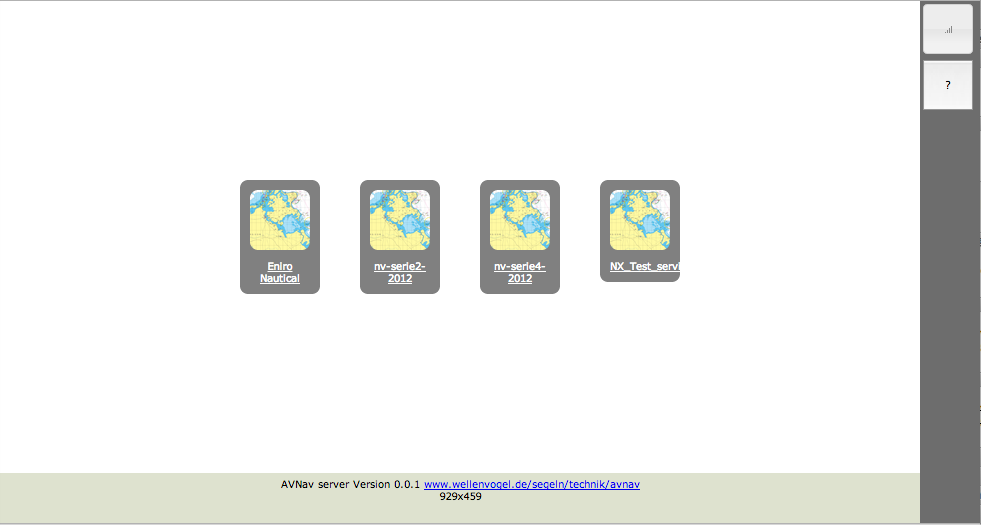
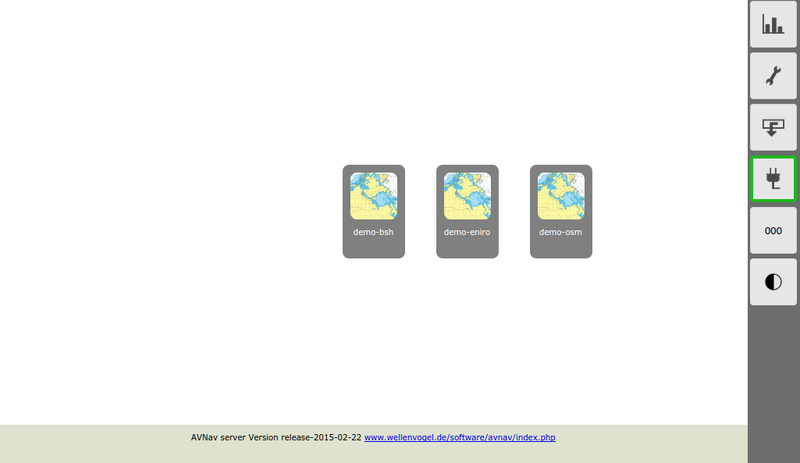
update doc

Changed region(s): [[0.0, 0.0, 1.0, 1.0], [0.2188, 0.3326, 0.75, 0.5745]]

diff --git a/docs/avnav-de.html b/docs/avnav-de.html
@@ -42,7 +42,7 @@
       danach einige technische Details.</p>
     <h3 class="western">Die Bedienung</h3>
     <p>Nach dem Aufruf der Start-Url landet man auf der Einstigesseite.</p>
-    <p><img src="mainpage.png" name="Grafik3" border="0" width="600"> </p>
+    <p><img src="navi-start.png" name="Grafik3" border="0" width="600"> </p>
     <p>Im Hauptbereich der Seite befindet sich die Liste der vom Server
       gefundenen Kartensätze (beim Raspi-Server gemf files unter
       /data/avnav/charts, in der Android App unter charts im gewählten
@@ -219,6 +219,8 @@
       meisten Aktionen bezihen sich auf diesen Wegepunkt. Er kann durch
       Anklicken links, durch die Pfeiltasten oben oder durch anklicken auf der
       Karte geändert werden.</p>
+    <p>Wenn man die momentan aktive Route bearbeitet, wird das durch einen roten
+      Rahmen links um die Routen-Info angezeigt.</p>
     <p>Neben den Standard buttons der Navigationsseite wird eine zusätzliche
       Leiste mit routing buttons eingeblendet:</p>
     <table style="width: 100%" border="1">
@@ -250,6 +252,11 @@
           </td>
         </tr>
         <tr>
+          <td><img alt="" src="../viewer/images/InvertRoute60.png" height="40"><br>
+          </td>
+          <td>Umkehren der Route</td>
+        </tr>
+        <tr>
           <td><img alt="" src="../viewer/images/trash32.png"><br>
           </td>
           <td>Löschen der aktuellen Route (alle Wegepunkte werden gelöscht)<br>
@@ -259,13 +266,25 @@
     </table>
     <p>Ein Klick auf den <img alt="" src="../viewer/images/RoutingButton40.png"
         height="20">Button verläßt den Editier-Modus ohne das die Route aktiv
-      wird.</p>
+      wird. Falls eine andere als die aktive Route editiert wurde, geht die
+      Anzeige jetzt zur aktiven Route zurück.</p>
     <p>Auf der linken Seite werden die Wegepunkte der aktuellen Route angezeigt.
       Dazu jeweils die Kurse und Distanzen für die Abschnitte. Im oberen Teil
       die Gesamtlänge der Route sowie die Gesamtstrecke sowie die ETA. Durch
       Anklicken kann man einen Wegepunkt aktivieren.</p>
     <p>Im oberen "Waypoint" Feld (nur sichtbar auf Mobilgeräten) kann man den
       Namen des Wegepunktes ändern und durch die Wegepunkte navigieren.</p>
+    <p>Ein Klick auf das Route Info Feld (links oben) führt zur Auswahl der
+      vorhandenen Routen.</p>
+    <img alt="" src="routepage.png" height="400">
+    <p>Hier kann man Routen löschen, herunterladen, Routen vom Tablet auf den
+      Raspberry laden oder eine Route unter einem neuen Namen speichern. Routen
+      mit dem Stecker-Symbol sind auf dem Raspberry vorhanden (und können nur
+      geändert werden, wenn man im connected mode ist). Die aktive Route ist mit
+      einem roten Punkt gekennzeichnet, die ausgewählte mit einem grünen.</p>
+    <p>Durch den <img alt="" src="../viewer/images/check32.png" height="20">Button
+      öffnet man die ausgewählte Route im Editor, der Cancel-Button geht zum
+      Editor mit der ursprünglichen Route zurück.&nbsp;</p>
     <p>Wenn eine Route aktiv ist, ändert sich das Navigationsdisplay und enthält
       die noch zurückzulegende Strecke sowie die ETA (links unten):</p>
     <img alt="" src="navi-route-active.png" height="400">
@@ -322,6 +341,13 @@
     <p><img src="navi-status.png" name="Grafik11" border="0" width="600"><br clear="RIGHT">
       Wichtig ist hier insbesondere der Status der „Serial reader“ - dieser
       zeigt, ob sie NMEA Daten empfangen.</p>
+    <h3>Die Download/Upload Seite</h3>
+    <p>Von der Startseite kommt man mit dem Button <img alt="" src="../viewer/images/download32.png" height="20">
+      zur Download-/Upload Seite. Auf dieser Seite kann man Tracks, Routen und
+      Karten herunterladen oder auf den Raspberry hochladen und sie dort auch
+      löschen.</p>
+    <p>Hochladen/Löschen funktionert nur im connected Mode.</p>
+    <img alt="" src="trackpage.png">
     <h3>Der Nachtmodus</h3>
     <p>Um im Dunkeln nicht zu blenden, kann man auf einen Nachtmodus umstellen
       (button <img alt="" src="../viewer/images/Night60.png" height="20">auf
@@ -476,11 +502,11 @@
     </p>
     <h3 class="western">Technische Infos</h3>
     <p>Die WebApp besteht aus einem HTML Gerüst (avnav_viewer.html) sowie den
-      eingebundenen JavaScript Bibliotheken und einem JavaScript Anteil (avnav_min.js).
-      Die Darstellung ist weitgehend von der eigentlichen Funktion entkoppelt
-      und wird per css (unter Nutzung von less) gesteuert. Man kann die
-      Darstellung in der HTMl Datei und in avnav_viewer.less weitgehend
-      anpassen.</p>
+      eingebundenen JavaScript Bibliotheken und einem JavaScript Anteil
+      (avnav_min.js). Die Darstellung ist weitgehend von der eigentlichen
+      Funktion entkoppelt und wird per css (unter Nutzung von less) gesteuert.
+      Man kann die Darstellung in der HTMl Datei und in avnav_viewer.less
+      weitgehend anpassen.</p>
     <p>Die Kommunikation erfolgt durch einfache GET/POST requests zur url <a href="http://avnav/viewer/avnav_navi.php">http://avnav/viewer/avnav_navi.php</a>,
       dann folgen Parameter, die den request beschreiben. Die Antworten vom
       server sind json kodiert.</p>
